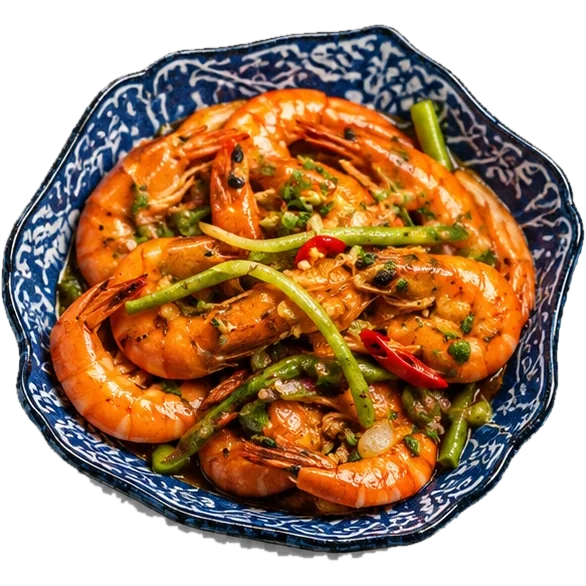
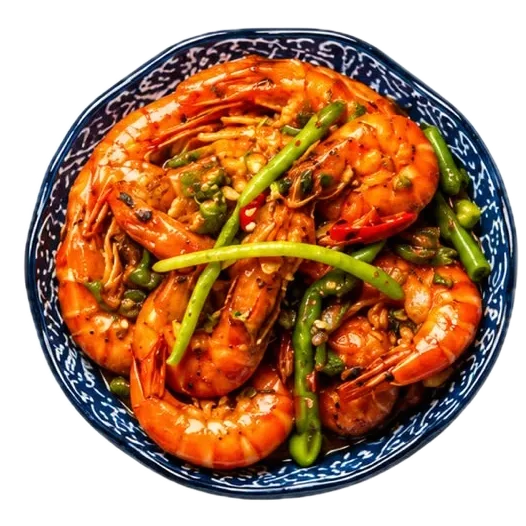
Website v3: photos for eight more dishes
- New cutouts: Beef Caldereta, Kare-Kareng Lechon Kawali, Ginataang
  Sitaw at Kalabasa, Pork Sisig, Adobong Pusit with Gata, Teriyaki
  Wings, Laing, Buttered Shrimp (the last two replace the old ones;
  beef-chili and sitaw-pork are gone).
- Each is centred on the dish itself, not its bounding box, so baskets
  with a knot and the sisig board spin without wobbling.
- 45-65 KB WebP each. v3 asset version 20261017v18. HANDOFF rev 12.

diff --git a/index.html b/index.html
@@ -17,14 +17,14 @@
 <link href="https://fonts.googleapis.com/css2?family=Playfair+Display:ital,wght@0,700;0,900;1,700&family=Lora:ital,wght@0,400;0,600;1,400&family=DM+Sans:wght@300;400;500;700&family=Fraunces:ital,opsz,wght,SOFT,WONK@0,9..144,500..900,0..100,0..1;1,9..144,500..900,0..100,0..1&family=Plus+Jakarta+Sans:wght@400;500;600;700&display=swap" rel="stylesheet">
 <link rel="stylesheet" href="tpn-app.css?v=20261017j">
 <link rel="stylesheet" href="tpn-glass.css?v=20261017j">
-<link rel="stylesheet" href="tpn-site-v3.css?v=20261017v17">
+<link rel="stylesheet" href="tpn-site-v3.css?v=20261017v18">
 <link rel="preload" href="vendor/supabase-js-2.117.2.js" as="script">
 <link rel="preload" href="config.js?v=20261017j" as="script">
 <link rel="preload" href="tpn-supabase.js?v=20261017j" as="script">
 <link rel="preload" href="tpn-kit.js?v=20261017j" as="script">
 <link rel="preload" href="tpn-site.js?v=20261017j" as="script">
 <link rel="preload" href="tpn-i18n.js?v=20261017j" as="script">
-<link rel="preload" href="tpn-home.js?v=20261017v17" as="script">
+<link rel="preload" href="tpn-home.js?v=20261017v18" as="script">
 <link rel="preload" href="assets/site/hero-sm.jpg" as="image" media="(max-width: 900px), (hover: none) and (pointer: coarse)" fetchpriority="high">
 <link rel="preload" href="assets/site/hero.webp" as="image" media="(min-width: 901px) and (hover: hover)" fetchpriority="high">
 <script src="vendor/supabase-js-2.117.2.js"></script>
@@ -38,7 +38,7 @@
 <script src="tpn-kit.js?v=20261017j"></script>
 <script src="tpn-site.js?v=20261017j"></script>
 <script src="tpn-i18n.js?v=20261017j"></script>
-<script src="tpn-home.js?v=20261017v17"></script>
+<script src="tpn-home.js?v=20261017v18"></script>
 <meta name="viewport" content="width=device-width, initial-scale=1.0, viewport-fit=cover">
 <meta name="description" content="Tyo Paeng Nyo — Authentic Filipino cuisine in Las Piñas since 2003. Order online, book events, or inquire about catering.">
 <meta name="theme-color" content="#8B1A0E">

diff --git a/tpn-home.js b/tpn-home.js
@@ -107,12 +107,17 @@
     'buttered shrimp': 'buttered-shrimp',
     'adobong pusit with gata': 'pusit-gata',
     'pares': 'pares',
-    'beef caldereta': 'beef-chili',
-    'kare-kareng lechon kawali': 'sitaw-pork',
+    'beef caldereta': 'caldereta',
+    'kare-kareng lechon kawali': 'kare-kare-lechon',
+    'ginataang sitaw at kalabasa': 'ginataang-sitaw-kalabasa',
+    'pork sisig': 'sisig',
+    'teriyaki wings': 'teriyaki-wings',
+    'laing': 'laing',
   };
   const photo = it => { const k = PHOTOS[(it.name || '').trim().toLowerCase()]; return k ? `assets/site/dishes/${k}.webp` : ''; };
   // sharpest source photos first, so the big bento card never gets a small one
-  const PHOTO_RANK = ['buttered shrimp', 'adobong pusit with gata', 'kare-kareng lechon kawali', 'beef caldereta', 'pares'];
+  const PHOTO_RANK = ['buttered shrimp', 'adobong pusit with gata', 'kare-kareng lechon kawali', 'beef caldereta', 'pork sisig',
+    'laing', 'ginataang sitaw at kalabasa', 'teriyaki wings', 'pares'];
   const rank = it => { const i = PHOTO_RANK.indexOf((it.name || '').trim().toLowerCase()); return i < 0 ? 99 : i; };
 
   /* ---------- line icons per category, emoji from the menu as fallback ---------- */

diff --git a/HANDOFF.md b/HANDOFF.md
@@ -70,6 +70,13 @@ tpn-os/
 - **Printed receipt:** step 5 of checkout prints a receipt out of a small printer (`.rcpt-*` in `tpn-site-v3.css`). Lines come from the tray; subtotal, delivery fee and total come from `submit_order`'s return (`checkoutData.receipt`, set in `confirmOrder`). Feed time scales with the line count (`--print`). The rest of the screen fades in afterwards, and the page scrolls the printer into view first. Off under reduced motion.
 - Asset versions: shared `?v=20261017j` (tpn-i18n.js gained 4 phrases), v3 files `?v=20261017v16`.
 
+## Rev 12 — new dish photos (Oct 17, 2026)
+
+- Nine dishes have photos now (`PHOTOS` in `tpn-home.js`, keyed by lower-case menu name). New: Beef Caldereta, Kare-Kareng Lechon Kawali, Ginataang Sitaw at Kalabasa, Pork Sisig, Adobong Pusit with Gata, Teriyaki Wings, Laing, Buttered Shrimp. Kept: Pares. `beef-chili.webp` and `sitaw-pork.webp` are replaced and removed.
+- **How they were made:** macOS Vision subject masks (cutouts from the owner's photo sheets), then WebP from the browser at q.82, max 600px, 45–65 KB each.
+- **Spin balance:** each file is centred on the middle of the largest circle that fits inside the dish, not on its bounding box. That way the laing/ginataang basket knot and the sisig board handle don't make it wobble. The canvas is as big as the farthest opaque pixel, so nothing clips while it turns. Use the same rule for new photos.
+- v3 asset version `20261017v18`.
+
 ## Rev 11 — phone hero and load speed (Oct 17, 2026)
 
 - **The phone "zoom" was `100dvh`.** dvh grows as the mobile browser bar slides away, so the hero grew mid-scroll and its cover photo rescaled. Touch devices (`(max-width: 900px), (hover: none) and (pointer: coarse)`, the same query in CSS and in `heroStill`) now use `100svh`, which stays still. Desktop keeps dvh and the recede effect.
